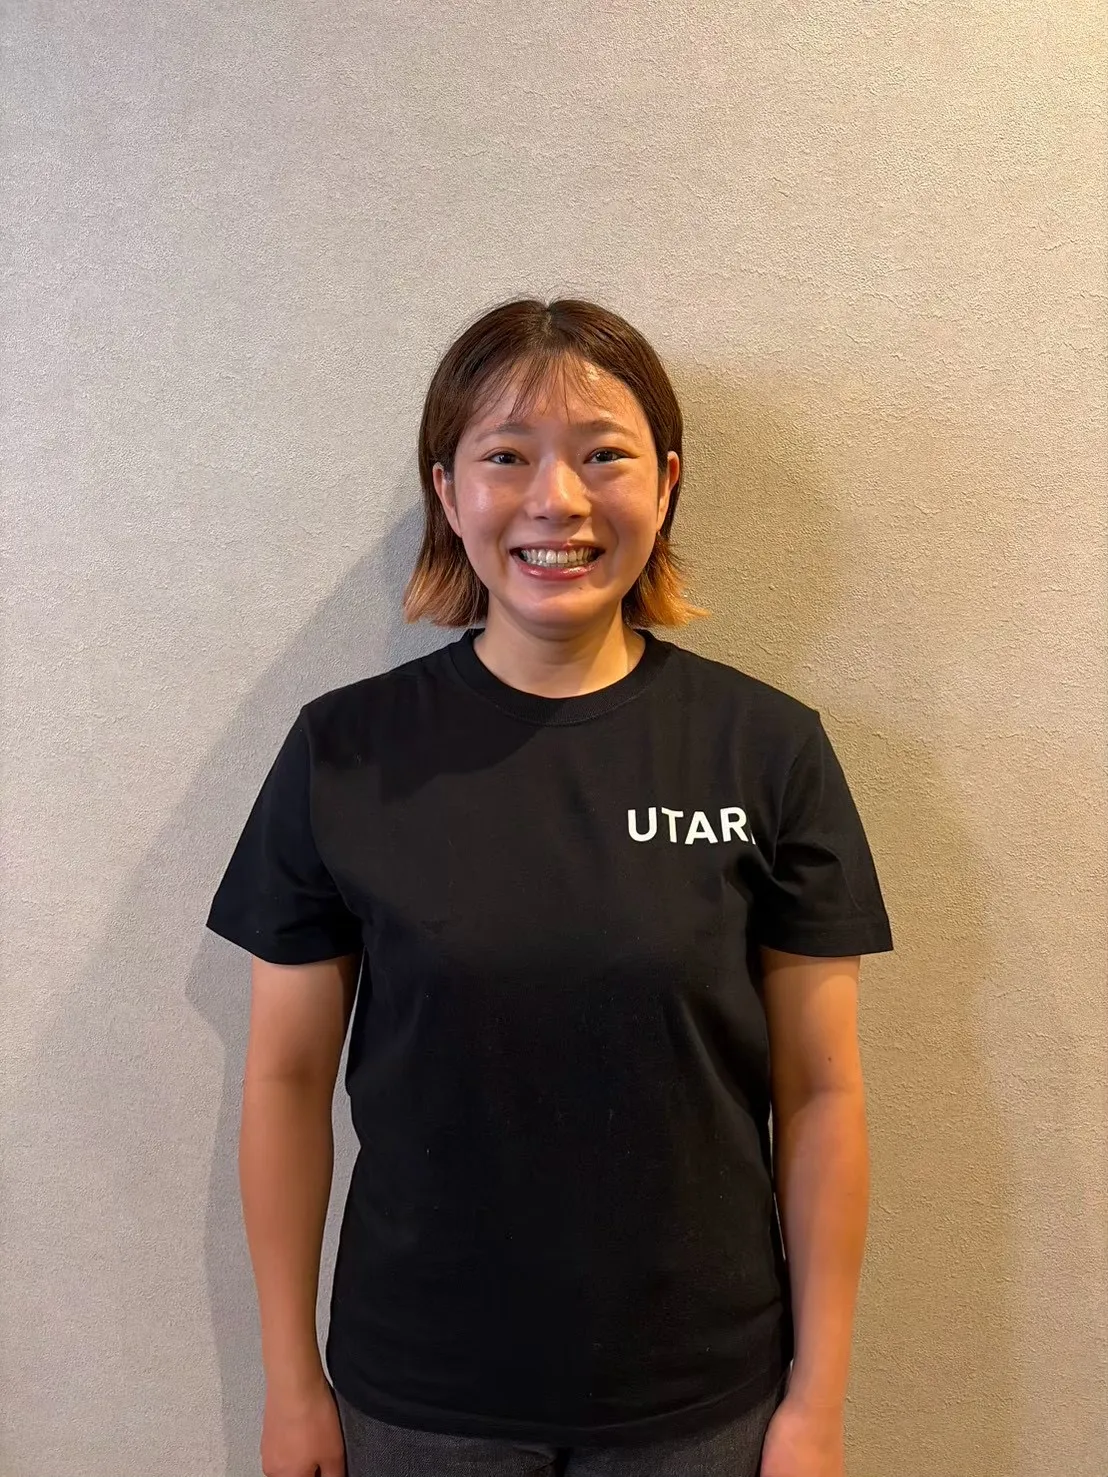
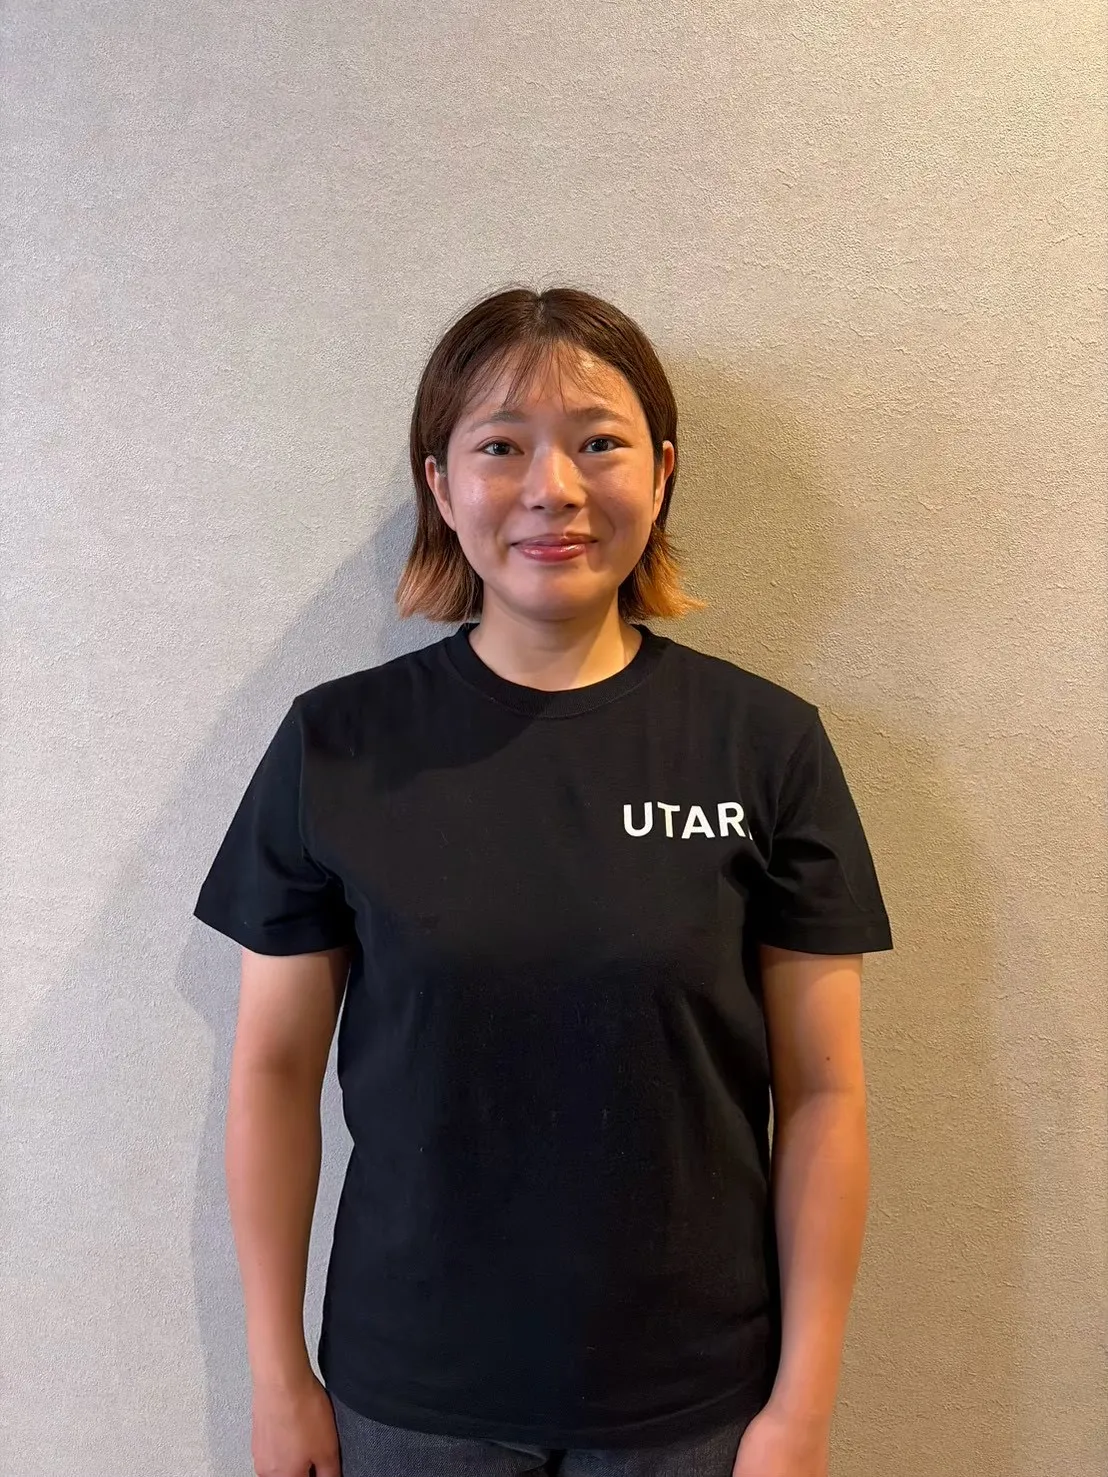
写真差し替え、スタッフ写真の各々のズーム度合い調整完了。

Changed region(s): [[0.0, 0.0, 1.0, 1.0], [0.5523, 0.5295, 0.6751, 0.5917], [0.491, 0.9655, 0.583, 1.0]]

diff --git a/css/page-staff.css b/css/page-staff.css
@@ -23,7 +23,29 @@ p {
   overflow: hidden;
 }
 
-/* 【新規追加沼倉:11/17】画像を切り抜く枠（ここで3等分とフェードインアニメーションを実行） */
+/* ==============================================
+   追加沼倉：11/17/トップ画像（PC / SP共通）：白いぼかし
+   ======================================== */
+
+/* 疑似要素を重ねるための基準（既存の .staff_img_box に追記でもOK） */
+.staff_img_box {
+  position: relative;
+}
+
+/* 画像の上に半透明の白い膜をふわっと被せる（z-index不使用） */
+.staff_img_box::after {
+  content: "";
+  position: absolute;
+  top: 0;
+  left: 0;
+  width: 100%;
+  height: 100%;
+  /* 白（255, 255, 255）の透明度25%（0.25）で柔らかい印象に */
+  background-color: rgba(255, 255, 255, 0.25);
+  pointer-events: none; /* クリックや画像選択の邪魔をしないようにする */
+}
+
+/* 【新規追加/沼倉:11/17】画像を切り抜く枠（ここで3等分とフェードインアニメーションを実行） */
 .staff_img_box {
   width: calc(100% / 3);
   margin-bottom: 4rem;
@@ -101,7 +123,7 @@ p {
   /* 【SP用】個別画像のズームアップ・位置調整 */
   .staff_zoom_sp_01 {
     transform: scale(3.0);
-    transform-origin: 26% 30%;
+    transform-origin: 26% 28%;
   }
 
   .staff_zoom_sp_02 {
@@ -312,6 +334,9 @@ p {
 
 .mainimg {
   flex: 0 0 45rem;
+  overflow: hidden; /*ズームした画像がはみ出さないように切り抜く 新規追加：沼倉*/
+  border-radius: 10%; /* スマホ・PC共通 */
+
 }
 
 .mainimg img {
@@ -319,6 +344,26 @@ p {
   height: 100%;/*10/26画像追加分修正:沼倉～autoを50remにして画像サイズをfigmaに合わせています。*/
   object-fit: cover;
 }
+
+/* ==========================================================================
+   スタッフ紹介カード：個別ズーム・位置微調整
+   ========================================================================== */
+.mainimg .staff_card_zoom_01 {
+  transform: scale(1.15);
+  transform-origin: 50% 30%;
+  border-radius: 10%;
+}
+
+.mainimg .staff_card_zoom_02 {
+  transform: scale(1.1);
+  transform-origin: 50% 40%;
+}
+
+.mainimg .staff_card_zoom_03 {
+  transform: scale(1.2);
+  transform-origin: 50% 80%;
+}
+
 /* 10/26追加:沼倉　PC版だけに適用する設定 */
 @media (min-width: 768px) {
   .mainimg img {
@@ -530,6 +575,21 @@ p {
     padding: 0;
   }
 
+   /* 1. 外枠の縦サイズ（height）指定 */
+  .mainimg-sp .staff_img_box {
+    width: calc(100% / 3);
+    height: 30rem; /*ここで縦サイズを指定する */
+    overflow: hidden;
+  }
+
+  /* 2. 中の画像を枠の高さいっぱいに合わせる */
+  .mainimg-sp .staff_img_box img {
+    width: 100%;
+    height: 100%;/* 親枠のheightに合わせる */
+    object-fit: cover;/* 比率を保ったまま枠いっぱいトリミング */
+    display: block;
+  }
+
   .sp-comment {
     position: relative;
     display: flex;
@@ -539,6 +599,7 @@ p {
     width: 100%;
     margin: 8rem 0 0 0;
   }
+
 
   .sp-comment p {
     font-size: 1.6rem;
@@ -658,7 +719,10 @@ p {
 
   .mainimg img {
     max-width: 100%;
+    border-radius: 8%;
   }
+
+
 
   .sp-stop {
     display: block;

diff --git a/page-staff.php b/page-staff.php
@@ -53,7 +53,7 @@
 
     <div class="card" id="staff1">
       <div class="mainimg">
-        <img src="<?php echo esc_url(get_theme_file_uri('img/staff/staff_member1.webp')); ?>" alt="メイン画像" />
+        <img src="<?php echo esc_url(get_theme_file_uri('img/staff/staff_membercard1.webp')); ?>" alt="メイン画像" class="staff_card_photo_img staff_card_zoom_03"/>
         <div class="sp-stop">
           <img src="<?php echo esc_url(get_theme_file_uri('img/staff/staff_border1.webp')); ?>" alt="">
         </div>
@@ -122,7 +122,7 @@
 
       </div>
       <div class="mainimg">
-        <img src="<?php echo esc_url(get_theme_file_uri('img/staff/staff_member2.webp')); ?>" alt="メイン画像" />
+        <img src="<?php echo esc_url(get_theme_file_uri('img/staff/staff_membercard2.webp')); ?>" alt="メイン画像" class="staff_card_photo_img staff_card_zoom_03"/>
         <div class="sp-stop stop2">
           <img src="<?php echo esc_url(get_theme_file_uri('img/staff/staff_border2.webp')); ?>" alt="">
         </div>
@@ -156,7 +156,7 @@
 
     <div class="card" id="staff3">
       <div class="mainimg">
-        <img src="<?php echo esc_url(get_theme_file_uri('img/staff/staff_member03.webp')); ?>" alt="メイン画像" />
+        <img src="<?php echo esc_url(get_theme_file_uri('img/staff/staff_membercard3.webp')); ?>" alt="メイン画像" class="staff_card_photo_img staff_card_zoom_03"/>
         <div class="sp-stop stop3">
           <img src="<?php echo esc_url(get_theme_file_uri('img/staff/staff_border3.webp')); ?>" alt="">
         </div>
